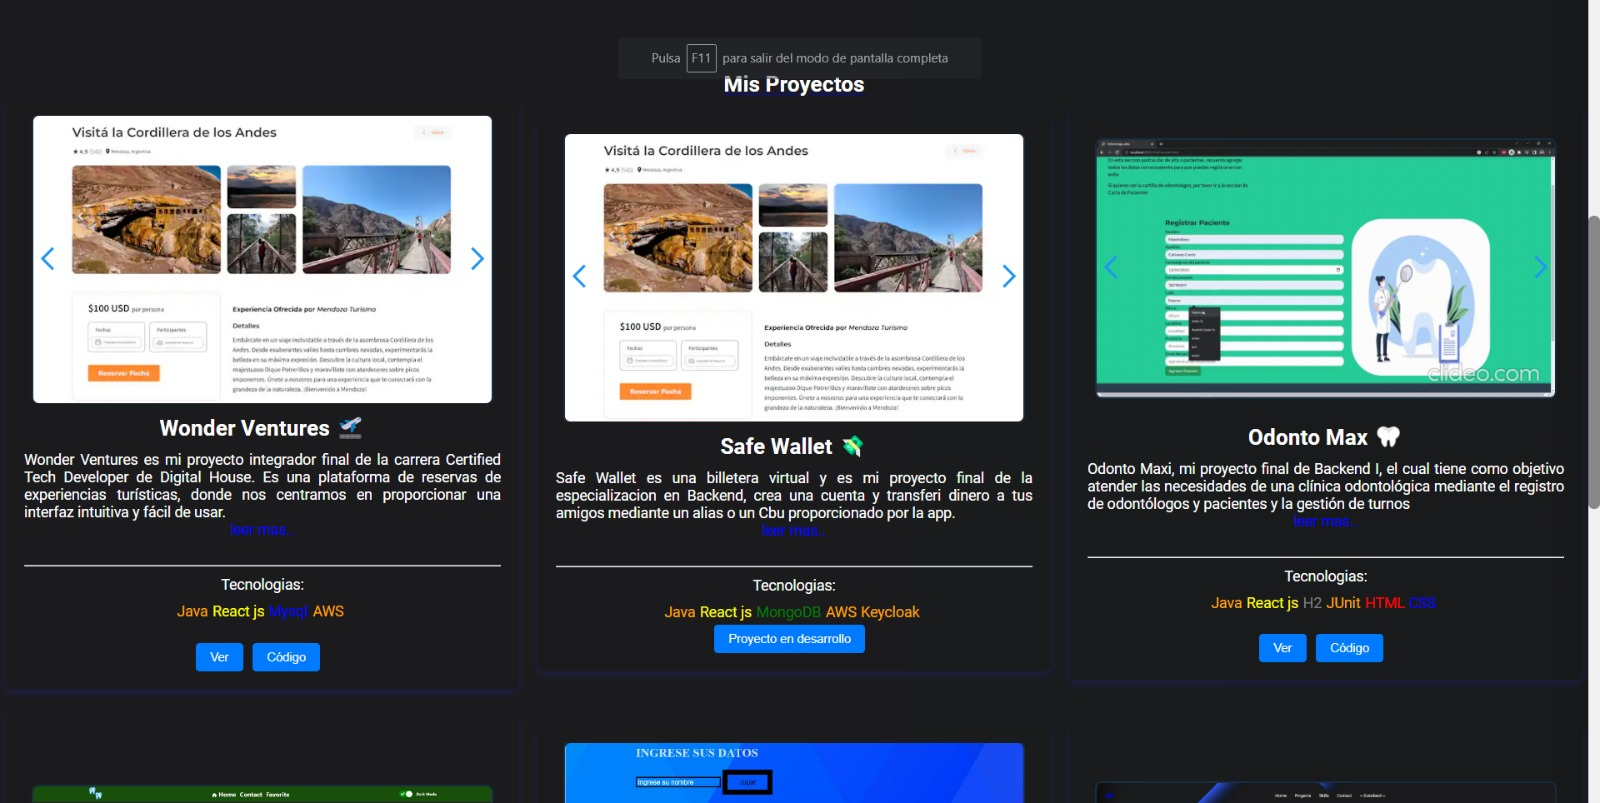
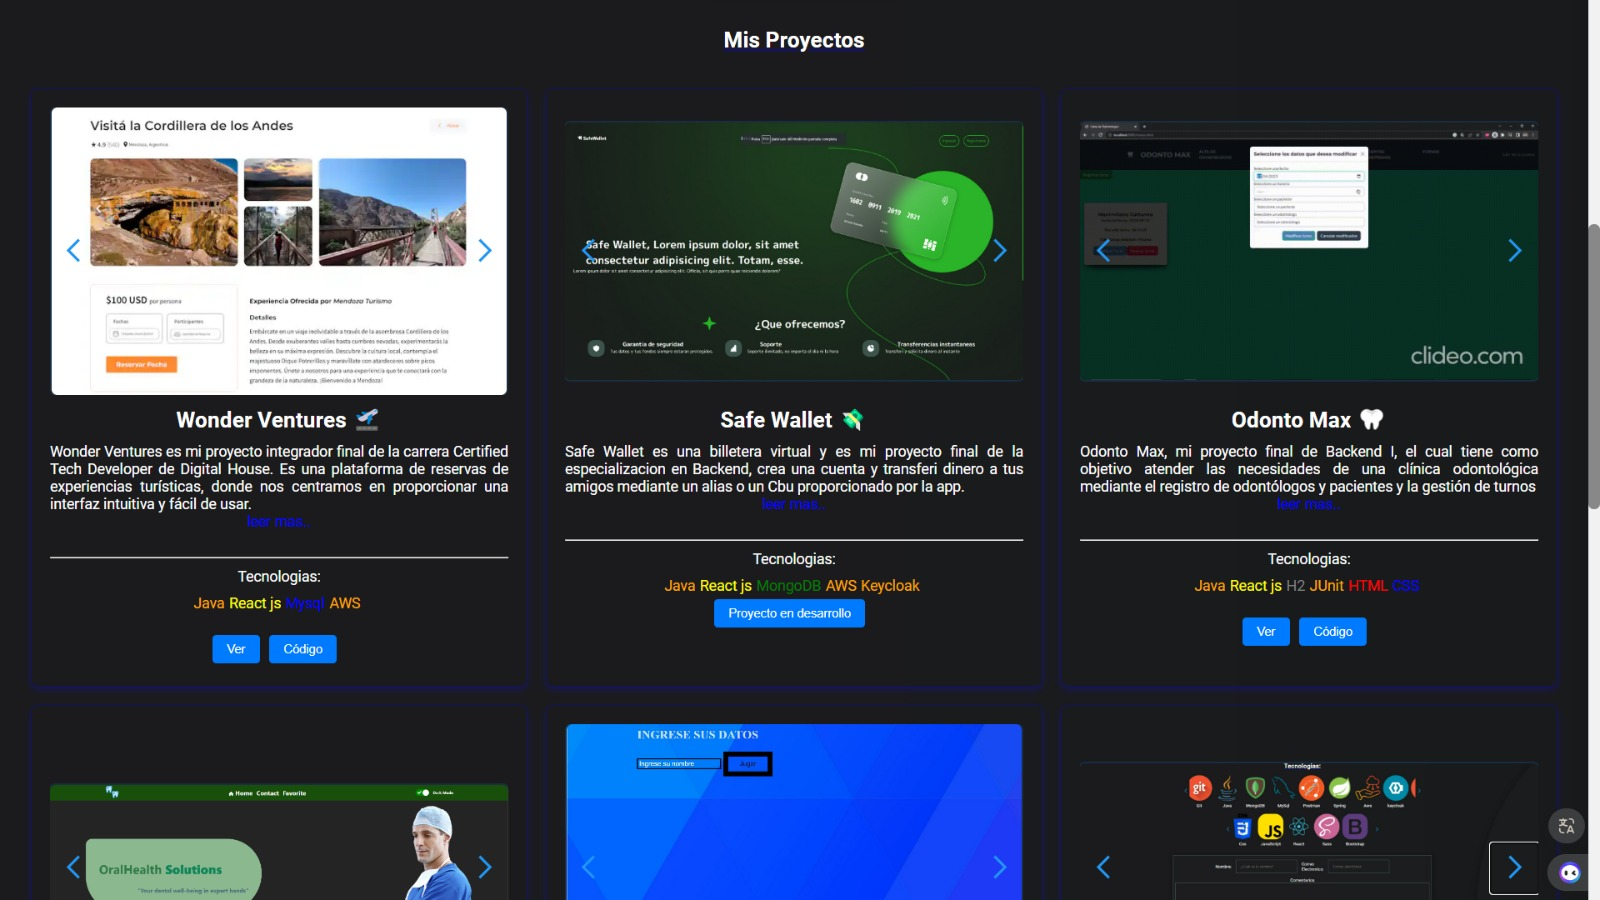
adding safewallet images

diff --git a/src/utils/projects.js b/src/utils/projects.js
@@ -35,13 +35,7 @@ let projects = [
 
   {
     id: 2,
-    image: [
-      "/wonder1.webp",
-      "/wonder2.webp",
-      "/wonder3.webp",
-      "/wonder4.webp",
-      "/wonder5.webp",
-    ],
+    image: ["/safewallet1.jpg", "/safewallet2.jpg", "/safewallet3.jpg"],
     title: "Safe Wallet 💸 ",
     details: `Safe Wallet es una billetera virtual y es mi proyecto final de la especializacion en Backend,
       crea una cuenta y transferi dinero a tus amigos mediante un alias o un Cbu proporcionado por 
@@ -99,9 +93,33 @@ let projects = [
       },
     ],
   },
-
   {
     id: 4,
+    image: ["/porfolio1.jpg", "/porfolio2.jpg", "/porfolio3.jpg"],
+    title: "Portafolio 🚀",
+    details: `En mi portafolio encontrarás una muestra de mis proyectos, 
+    los cuales representan el resultado de mi esfuerzo y dedicación 
+    en el estudio. `,
+    moredetails: `Aquí es donde muestro una selección de mis trabajos y es la manera que puedo mostrar mis habilidades.
+    Te invito a visitar mi perfil 
+    de GitHub para explorar más de mis trabajos y habilidades. ¡Gracias por tomarte el tiempo de revisar mi portafolio!
+    `,
+    technologies: [
+      { name: "React js", color: colors[3] },
+      { name: "HTML", color: colors[0] },
+      { name: "CSS", color: colors[1] },
+      { name: "Love 😁", color: colors[0] },
+    ],
+    url: [
+      {
+        codigo: "https://github.com/MaxiCattaneoCvetic/webporfolio",
+        deploy: "https://webporfolio-gray.vercel.app/ ",
+        isReady: true,
+      },
+    ],
+  },
+  {
+    id: 5,
     image: ["/odonto1.png", "/odonto2.png", "/odonto3.jpg"],
     title: "OdontoSolutions 🦷",
     details: `Odonto Solutions surgió como examen final de frontend de mi carrera de Certified Tech Developer.
@@ -115,12 +133,12 @@ let projects = [
         codigo:
           "https://github.com/MaxiCattaneoCvetic/OdontoSolutions/tree/93e61b0772ff2413e8ceedfd6c1206cbb6729777",
         deploy: "https://odonto-mu.vercel.app/",
-        isReady:true
+        isReady: true,
       },
     ],
   },
   {
-    id: 5,
+    id: 6,
     image: ["/tiro1.jpg", "/tiro2.jpg"],
     title: "Tiro al blanco 🔫",
     details: `Tiro al blanco es un emocionante proyecto creado como parte del curso de Alura.
@@ -141,31 +159,6 @@ let projects = [
       {
         codigo: "https://github.com/MaxiCattaneoCvetic/TiroAlBlanco",
         deploy: "https://maxicattaneocvetic.github.io/TiroAlBlanco/",
-        isReady: true,
-      },
-    ],
-  },
-  {
-    id: 6,
-    image: ["/porfolio1.jpg", "/porfolio2.jpg", "/porfolio3.jpg"],
-    title: "Portafolio 🚀",
-    details: `En mi portafolio encontrarás una muestra de mis proyectos, 
-    los cuales representan el resultado de mi esfuerzo y dedicación 
-    en el estudio. `,
-    moredetails: `Aquí es donde muestro una selección de mis trabajos y es la manera que puedo mostrar mis habilidades.
-    Te invito a visitar mi perfil 
-    de GitHub para explorar más de mis trabajos y habilidades. ¡Gracias por tomarte el tiempo de revisar mi portafolio!
-    `,
-    technologies: [
-      { name: "React js", color: colors[3] },
-      { name: "HTML", color: colors[0] },
-      { name: "CSS", color: colors[1] },
-      { name: "Love 😁", color: colors[0] },
-    ],
-    url: [
-      {
-        codigo: "https://github.com/MaxiCattaneoCvetic/webporfolio",
-        deploy: "https://webporfolio-gray.vercel.app/ ",
         isReady: true,
       },
     ],
